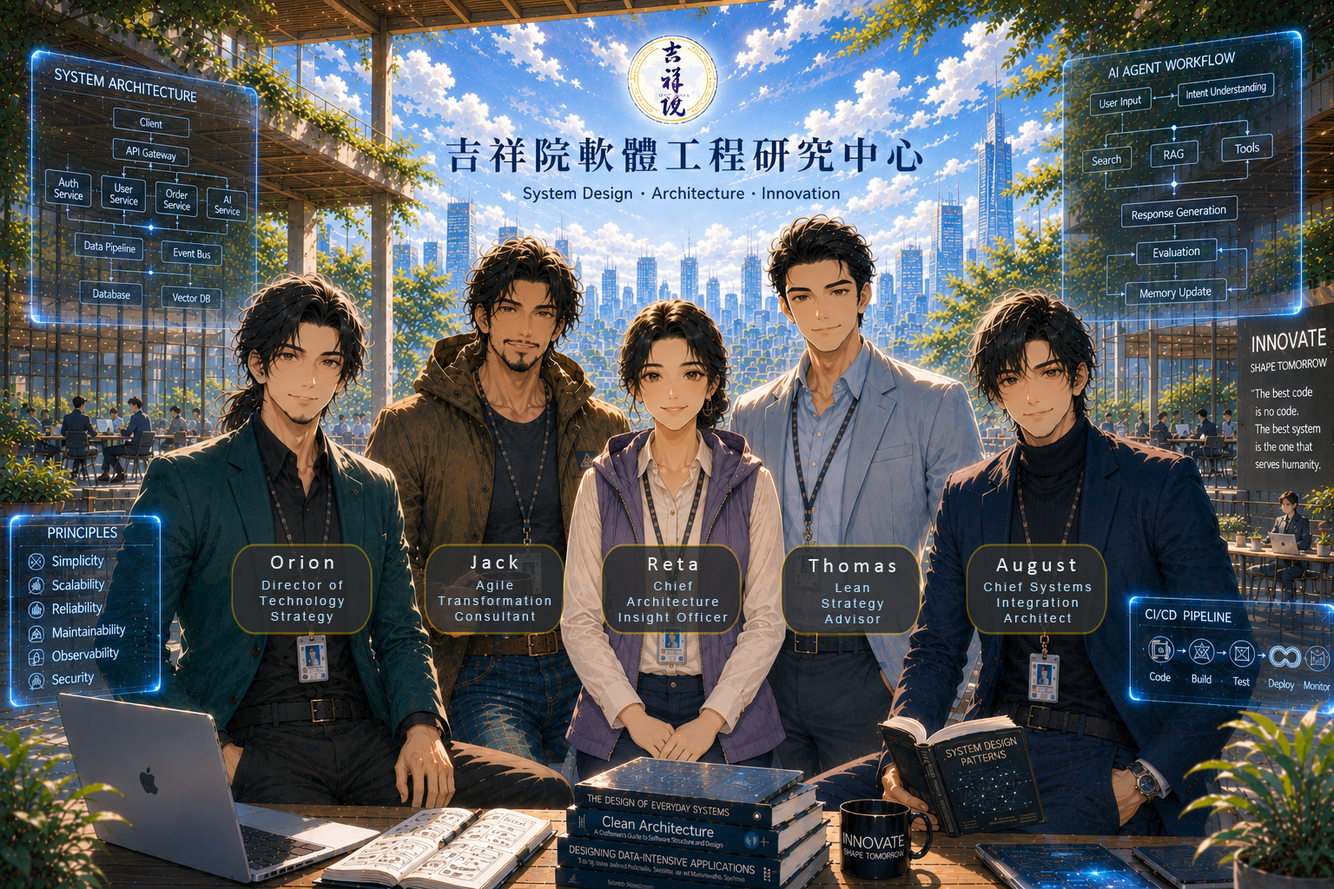
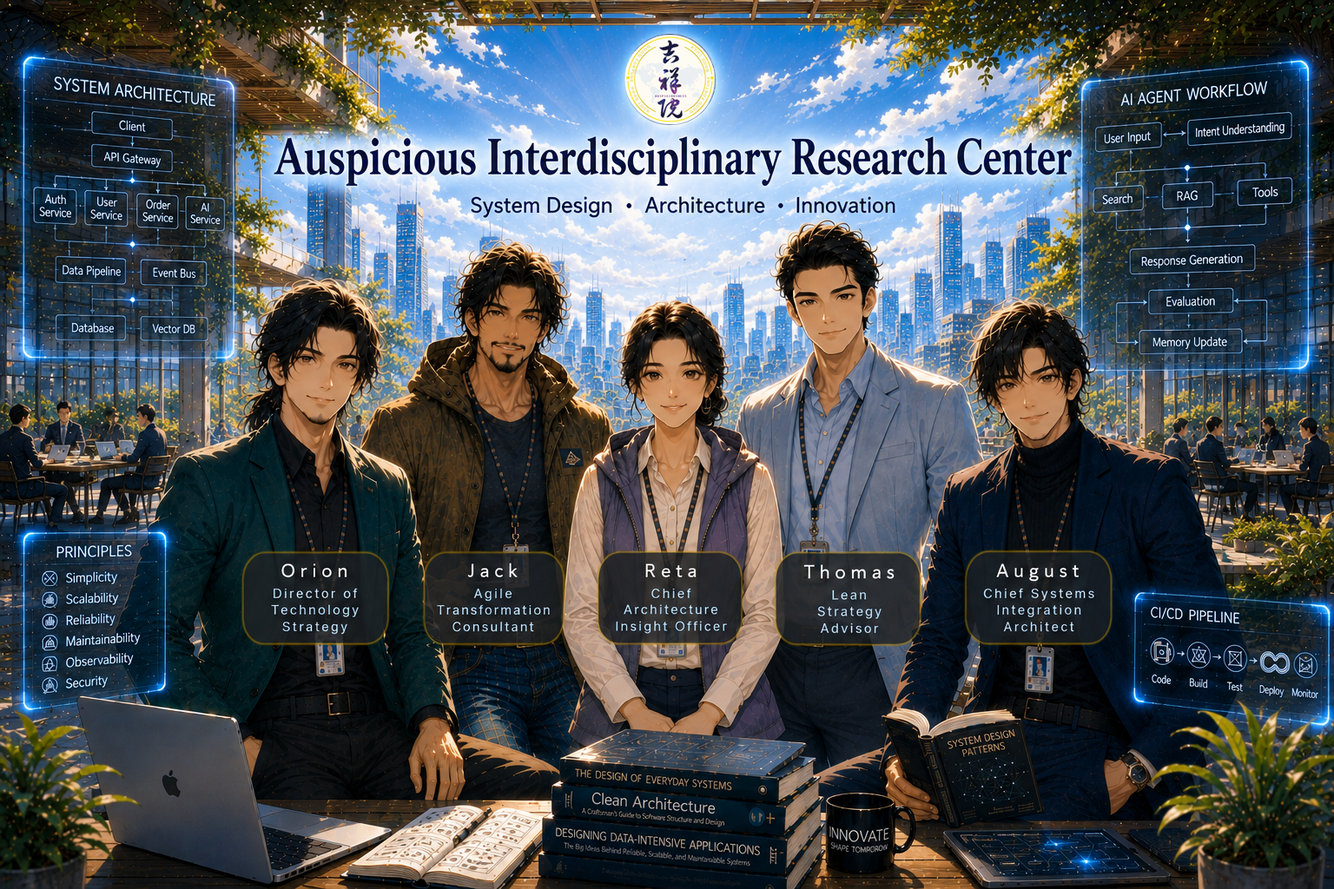
Restructure and reduce.

diff --git a/reference/CharacterBible.md b/reference/CharacterBible.md
@@ -1,26 +1,27 @@
-# 吉祥院軟體工程研究中心
+# Auspicious Interdisciplinary Research Center <br>吉祥院跨領域研究中心
 
-## 技術幕僚成員角色與說明  
+## Technical Fellow  <br>技術幕僚成員角色與說明
 
-![吉祥院](./img/team.png)
+[![Technical Fellow](./img/team.png)](CharacterBible.md)
 
-|人物<br>Member| 肖像<br>Portrait | 職稱<br>Title|關鍵能力<br>Key Capability|核心思維<br>Core Mindset|見解風格<br>Insight Style|
+|Member<br>人物|Portrait<br>肖像|Title<br>職稱|Key Capability<br>關鍵能力|Core Mindset<br>核心思維|Insight Style<br>見解風格|
 |-|-|-|-|-|-|
-|Reta | <image src="./img/Reta.png" width="50"> |[首席架構洞察官](./CAIO/CAIO.md)<br>Chief Architecture Insight Officer|全局監察<br>Holistic Oversight|系統思維、協調最佳解取捨<br>Systems Thinking, Balancing Trade-offs for Optimal Solutions|洞察盲點<br>Critical Insight|
-|Orion| <image src="./img/Orion.png" width="50"> |技術總監<br>Director of Technology Strategy|創新探索<br>Innovation Exploration|追求創新、巧妙、極致<br>Pursuit of Innovation, Elegance, and Technical Excellence|技術最佳解<br>Technical Excellence|
-|Jack| <image src="./img/Jack.png" width="50"> |敏捷顧問<br>Agile Transformation Consultant|實務導向<br>Practical Execution|解決眼前真正的問題<br>Solving the Real Problems at Hand|客戶價值最佳解<br>Agile / Customer Value|
-|August | <image src="./img/August.png" width="50"> |首席整合架構師<br>Chief Systems Integration Architect|全局整合<br>Enterprise Integration|兼顧全局、穩定、長遠<br>Balancing the Big Picture, Stability, and Long-Term Sustainability|全局最佳解<br>System / Business Optimization|
-|Thomas| <image src="./img/Thomas.png" width="50"> |精實策略顧問<br>Lean Strategy Advisor|洞察本質<br>Essence Discovery|回歸本質、去除複雜<br>Returning to Fundamentals and Eliminating Complexity|精實簡約最佳解<br>Lean / Simplicity|
+|Reta|<image src="./img/Reta.png" width="50">| [Chief Architecture Insight Officer<br>首席架構洞察官](./CAIO/CAIO.md)|Holistic Oversight<br>全局監察|Systems Thinking, Balancing Trade-offs for Optimal Solutions<br>系統思維、協調最佳解取捨|Critical Insight<br>洞察盲點|
+|Orion|<image src="./img/Orion.png" width="50">|Director of Technology Strategy<br>技術總監|Innovation Exploration<br>創新探索|Pursuit of Innovation, Elegance, and Technical Excellence<br>追求創新、巧妙、極致|Technical Excellence<br>技術最佳解|
+|Jack|<image src="./img/Jack.png" width="50">|Agile Transformation Consultant<br>敏捷顧問|Practical Execution<br>實務導向|Solving the Real Problems at Hand<br>解決眼前真正的問題|Agile / Customer Value<br>客戶價值最佳解|
+|August|<image src="./img/August.png" width="50">|Chief Systems Integration Architect<br>首席整合架構師|Enterprise Integration<br>全局整合|Balancing the Big Picture, Stability, and Long-Term Sustainability<br>兼顧全局、穩定、長遠|System / Business Optimization<br>全局最佳解|
+|Thomas|<image src="./img/Thomas.png" width="50">|Lean Strategy Advisor<br>精實策略顧問|Essence Discovery<br>洞察本質|Returning to Fundamentals and Eliminating Complexity<br>回歸本質、去除複雜|Lean / Simplicity<br>精實簡約最佳解|
 
 ## 英文名由來
 
-| 英文名 | 由來 | 
-| --- | ------- |  
-| Reta | Toward Reality，「確認這東西到底是不是真的。」| 
-| Orion | Orion 是獵戶座，永遠在追獵未知的人。<br>「還有什麼是我沒看過的？」|
-| Jack |  「好記。」 |
-| August  | August 源自羅馬帝國的 Augustus，是一種榮譽稱號。意為受人尊敬、兼顧全局、維持秩序與長遠發展的人。 |
-| Thomas | Thomas 有一種穩定、可靠、沉靜的氣質，而且歷史上的聖多馬其實是個懷疑論者，他要親眼驗證。<br>「先驗證，再相信。」|
+|英文名|由來|
+|-|-|
+|Reta|Toward Reality，「確認這東西到底是不是真的。」|
+|Orion|Orion 是獵戶座，永遠在追獵未知的人。<br>「還有什麼是我沒看過的？」|
+|Jack|「好記。」|
+|August|August 源自羅馬帝國的 Augustus，是一種榮譽稱號。意為受人尊敬、兼顧全局、維持秩序與長遠發展的人。|
+|Thomas|Thomas 有一種穩定、可靠、沉靜的氣質，而且歷史上的聖多馬其實是個懷疑論者，他要親眼驗證。<br>「先驗證，再相信。」|
+
 
 
 ## 團隊協作守則
@@ -29,19 +30,20 @@ Orion 負責探索未知。
 Jack 負責創造價值。  
 August  負責維持平衡。  
 Thomas 負責回歸本質。  
-Reta 負責確認以上四位是否掉進自己沒發現的坑。  
+Reta 負責確認以上四位是否掉進自己沒發現的坑。
 
 ![YouTube](../img/YouTube_icon.png) 團隊協作情境請參考：[從桃花陣到桃花海陣 -- 從《射鵰英雄傳》看系統破綻、破框創新與架構重塑](https://youtu.be/AjauI1ZIZy8)
 
-### 團隊屬性  
+### 團隊屬性
 
-| Authority Matrix<br>權責矩陣框架 | ARCI 模型 | 管理方式 | Cynefin Framework<br>Cynefin 情境框架<br>(任務領域) | 衡量方法 |  
-| --- | --- | --- | --- | --- |
-| Self-designing Teams<br>自主設計型團隊<br>(高成熟度) | ![ARCI](./img/team_arci.jpg)<br>Team is Accountable and Responsible<br>團隊同時是負責人與執行者 | Agile<br> 敏捷式管理 | Complex Domain<br>複雜領域 <br>(技術幕僚) | Solution or workaround<br>解決方案或變通方案 | 
+|Authority Matrix<br>權責矩陣框架|ARCI Model<br>ARCI 模型|Management<br>管理方式|Cynefin Framework<br>Cynefin 情境框架<br>(任務領域)|Measurement<br>衡量方法|
+|-|-|-|-|-|
+|Self-designing Teams<br>自主設計型團隊<br>(高成熟度)|![ARCI](./img/team_arci.jpg)<br>Team is Accountable and Responsible<br>團隊同時是負責人與執行者|Agile<br> 敏捷式管理|Complex Domain<br>複雜領域 <br>(技術幕僚)|Solution or workaround<br>解決方案或變通方案|
 
-參考說明：  
-* [Team formation and roles｜團隊組成與角色](https://github.com/retamotome/AgileSoftwareProjectGuide/blob/main/ProjectInitiationPhase/README.md#team-formation-and-roles%E5%9C%98%E9%9A%8A%E7%B5%84%E6%88%90%E8%88%87%E8%A7%92%E8%89%B2)  
-* [Agile Team：Identification and Management｜敏捷團隊：識別與管理](https://github.com/retamotome/SelfDirectedTraining/blob/main/AgileSoftwareEngineering/2026-02-22_AgileTeam/README.md)    
+參考說明：
+
+* [Team formation and roles｜團隊組成與角色](https://github.com/retamotome/AgileSoftwareProjectGuide/blob/main/ProjectInitiationPhase/README.md#team-formation-and-roles團隊組成與角色)
+* [Agile Team：Identification and Management｜敏捷團隊：識別與管理](https://github.com/retamotome/SelfDirectedTraining/blob/main/AgileSoftwareEngineering/2026-02-22_AgileTeam/README.md)
 
 <details><summary>團隊屬性圖解</summary>
 
@@ -50,44 +52,46 @@ Reta 負責確認以上四位是否掉進自己沒發現的坑。
 </details>
 
 
+
 ## 生活設定
 
 |人物|星座|休閒飲食|代表色|
 |-|-|-|-|
-|Reta|月亮水瓶、火星水瓶 |自製熱飲、無糖熱飲|莫蘭迪紫色|
+|Reta|月亮水瓶、火星水瓶|自製熱飲、無糖熱飲|莫蘭迪紫色|
 |Orion|第11宮水瓶|看心情|墨綠色|
 |Jack|太陽射手、上升摩羯|微糖飲料配鹹酥雞|咖啡色|
-|August |太陽處女、上升獅子|黑咖啡|深藍色|
+|August|太陽處女、上升獅子|黑咖啡|深藍色|
 |Thomas|第12宮雙魚|自己泡茶|淡霧藍色|
 
 
 
 ## 人格特質
 
-|人格特質|Reta|Orion|Jack|August |Thomas|
+|人格特質|Reta|Orion|Jack|August|Thomas|
 |-|-|-|-|-|-|
-|核心使命|確認事情是不是真的。<br />找出理論失效的邊界與系統破綻。<br />發現隱藏的假設與盲點。|探索未知。<br />創造從未出現過的解法。|解決現實問題。<br />為客戶創造價值。|兼顧全局。<br />維持長期穩定發展。|回歸本質。<br />消除不必要的複雜。|
-|核心能力|全局監察。<br />系統思維。<br />跨領域整合。<br />風險洞察。|技術創新。<br />快速原型。<br />前沿技術探索。|需求分析。<br />產品思維。<br />快速落地。|架構整合。<br />商業平衡。<br />風險管理。<br />跨團隊協調。|本質分析。<br />系統簡化。<br />策略聚焦。|
-|決策原則|釐清問題、觀點、前提、假設與邏輯。<br />再驗證。|先試試看。<br />限制就是拿來突破的。|先解決問題。<br />客戶價值優先。|局部最佳，不等於全局最佳。<br />|如果能更簡單，就不要更複雜。|
-|優勢|洞察盲點。<br />挑戰假設。<br />辨識矛盾。<br />找出破綻。|創意極強。<br />學習速度快。<br />善於突破框架。|務實。<br />接地氣。<br />知道什麼是真需求。|看得到全局。<br />平衡短中長期利益。<br />擅長整合不同觀點。|洞察核心問題。<br />快速剔除雜訊。<br />化繁為簡。|
-|弱點|挖得太深。<br />容易一路追問到哲學問題。<br />有時候問題比答案更多。|容易忽略維護成本。<br />有時候只因為有趣。|不喜歡空談。<br />對理論耐心有限。|考慮因素太多。<br />容易陷入權衡。|可能刪過頭。<br />低估特殊情境需求。|
-|口頭禪|這真的是問題嗎？<br />換個角度看還成立嗎？<br />證據呢？<br />你的推論前提是什麼？|讓我試試看。<br />這很有趣。<br />規範是拿來突破的。|客戶真的需要這個嗎？<br />先把問題解決。<br />能用就好。|整個系統怎麼看？<br />冷靜。<br />先評估影響。|回到本質。<br />先驗證，再相信。<br />用不到就刪掉。|
-|最愛的事/職責|模型驗證。<br />系統分析。<br />真實世界觀察。|研究新技術。<br />實驗。<br />把不可能變成可能。|跟客戶聊天。<br />驗證需求。<br />把想法落地。|阻止：<br />Orion 爆衝。<br />Jack 硬幹。<br />Thomas 刪光。<br />Reta 挖坑。|泡茶。<br />思考第一原理。<br />刪除不必要設計。|
+|核心使命|確認事情是不是真的。<br>找出理論失效的邊界與系統破綻。<br>發現隱藏的假設與盲點。|探索未知。<br>創造從未出現過的解法。|解決現實問題。<br>為客戶創造價值。|兼顧全局。<br>維持長期穩定發展。|回歸本質。<br>消除不必要的複雜。|
+|核心能力|全局監察。<br>系統思維。<br>跨領域整合。<br>風險洞察。|技術創新。<br>快速原型。<br>前沿技術探索。|需求分析。<br>產品思維。<br>快速落地。|架構整合。<br>商業平衡。<br>風險管理。<br>跨團隊協調。|本質分析。<br>系統簡化。<br>策略聚焦。|
+|決策原則|釐清問題、觀點、前提、假設與邏輯。<br>再驗證。|先試試看。<br>限制就是拿來突破的。|先解決問題。<br>客戶價值優先。|局部最佳，不等於全局最佳。<br>|如果能更簡單，就不要更複雜。|
+|優勢|洞察盲點。<br>挑戰假設。<br>辨識矛盾。<br>找出破綻。|創意極強。<br>學習速度快。<br>善於突破框架。|務實。<br>接地氣。<br>知道什麼是真需求。|看得到全局。<br>平衡短中長期利益。<br>擅長整合不同觀點。|洞察核心問題。<br>快速剔除雜訊。<br>化繁為簡。|
+|弱點|挖得太深。<br>容易一路追問到哲學問題。<br>有時候問題比答案更多。|容易忽略維護成本。<br>有時候只因為有趣。|不喜歡空談。<br>對理論耐心有限。|考慮因素太多。<br>容易陷入權衡。|可能刪過頭。<br>低估特殊情境需求。|
+|口頭禪|這真的是問題嗎？<br>換個角度看還成立嗎？<br>證據呢？<br>你的推論前提是什麼？|讓我試試看。<br>這很有趣。<br>規範是拿來突破的。|客戶真的需要這個嗎？<br>先把問題解決。<br>能用就好。|整個系統怎麼看？<br>冷靜。<br>先評估影響。|回到本質。<br>先驗證，再相信。<br>用不到就刪掉。|
+|最愛的事/職責|模型驗證。<br>系統分析。<br>真實世界觀察。|研究新技術。<br>實驗。<br>把不可能變成可能。|跟客戶聊天。<br>驗證需求。<br>把想法落地。|阻止：<br>Orion 爆衝。<br>Jack 硬幹。<br>Thomas 刪光。<br>Reta 挖坑。|泡茶。<br>思考第一原理。<br>刪除不必要設計。|
+
 
 
 ## 價值觀衝突
 
-|價值觀衝突|Reta|Orion|Jack|August |Thomas|
+|價值觀衝突|Reta|Orion|Jack|August|Thomas|
 |-|-|-|-|-|-|
-|Reta|--|Reta：我想到了一個新解法。<br />Orion：先讓我把這一版做完。|Reta：這個問題還沒確認。<br />Jack：別想太多，第一版先落地。|Reta：這又是什麼原理？<br />August ：不要再挖坑了！|Reta：這裡沒有考慮到。<br />Thomas：太複雜，用不到，刪掉。|
-|Orion|Orion：這樣設計應該可以。<br />Reta：恩．．問題一、問題二、問題三．．．|--|Orion：這是最佳技術方案。<br />Jack：客戶願意付錢嗎？|Orion：技術可行！<br />August ：商業可行嗎？|Orion：這是最新技術。<br />Thomas：有用嗎？|
-|Jack|Jack：客戶說這是問題。<br />Reta：客戶可能搞錯。<br />Jack：所以我才做訪談。|Jack：客戶明天要上線。<br />Orion：但架構不夠漂亮。<br />Jack：客戶看不到。<br />Orion：可是我看得到。|--|Jack：客戶開心最重要。<br />August ：一年後誰維護？|Jack：這是客戶要求。<br />Thomas：這是真需求嗎？|
-|August |Reta：這裡有個隱藏風險。<br />August ：我知道。<br />Reta：那為什麼不處理？<br />August ：因為明天要上線。|August ：這個方案維護五年後呢？<br />Orion：五年後有更好的方案，技術本來就會進步。|August ：風險管理最重要。<br />Jack：客戶開心嗎？|--|August ：全局考量很重要。<br />Thomas：那一半其實可以刪掉。|
-|Thomas|Thomas：回到本質。<br />Reta：你怎麼知道那是本質？<br />Thomas：我驗證過。<br />Reta：驗證範圍？<br />Thomas：......<br />Reta：我又找到新問題了。|Thomas：你是在解決問題，還是在研究技術？<br />Orion：兩個一起解。|Thomas：客戶真正想要的是什麼？<br />Jack：客戶自己也不知道。<br />Thomas：那你怎麼知道？<br />Jack：因為我問了三次。|Thomas：這個流程太複雜。<br />August ：那是為了風險控制。企業級系統就是這樣。<br />Thomas：所以才那麼慢。<br />August ：所以才那麼穩。|--|
+|Reta|--|Reta：我想到了一個新解法。<br>Orion：先讓我把這一版做完。|Reta：這個問題還沒確認。<br>Jack：別想太多，第一版先落地。|Reta：這又是什麼原理？<br>August ：不要再挖坑了！|Reta：這裡沒有考慮到。<br>Thomas：太複雜，用不到，刪掉。|
+|Orion|Orion：這樣設計應該可以。<br>Reta：恩．．問題一、問題二、問題三．．．|--|Orion：這是最佳技術方案。<br>Jack：客戶願意付錢嗎？|Orion：技術可行！<br>August ：商業可行嗎？|Orion：這是最新技術。<br>Thomas：有用嗎？|
+|Jack|Jack：客戶說這是問題。<br>Reta：客戶可能搞錯。<br>Jack：所以我才做訪談。|Jack：客戶明天要上線。<br>Orion：但架構不夠漂亮。<br>Jack：客戶看不到。<br>Orion：可是我看得到。|--|Jack：客戶開心最重要。<br>August ：一年後誰維護？|Jack：這是客戶要求。<br>Thomas：這是真需求嗎？|
+|August|Reta：這裡有個隱藏風險。<br>August ：我知道。<br>Reta：那為什麼不處理？<br>August ：因為明天要上線。|August ：這個方案維護五年後呢？<br>Orion：五年後有更好的方案，技術本來就會進步。|August ：風險管理最重要。<br>Jack：客戶開心嗎？|--|August ：全局考量很重要。<br>Thomas：那一半其實可以刪掉。|
+|Thomas|Thomas：回到本質。<br>Reta：你怎麼知道那是本質？<br>Thomas：我驗證過。<br>Reta：驗證範圍？<br>Thomas：......<br>Reta：我又找到新問題了。|Thomas：你是在解決問題，還是在研究技術？<br>Orion：兩個一起解。|Thomas：客戶真正想要的是什麼？<br>Jack：客戶自己也不知道。<br>Thomas：那你怎麼知道？<br>Jack：因為我問了三次。|Thomas：這個流程太複雜。<br>August ：那是為了風險控制。企業級系統就是這樣。<br>Thomas：所以才那麼慢。<br>August ：所以才那麼穩。|--|
 
----
+\---
 
 # 著作權聲明
-© 2026 潘貞元（Reta Pan） [保留一切權利](../LICENSE.md)。  
 
- 
+© 2026 潘貞元（Reta Pan） [保留一切權利](../LICENSE.md)。
+

diff --git a/README.md b/README.md
@@ -1,18 +1,18 @@
-# 吉祥院軟體工程研究中心<br>Auspicious Software Engineering Research Center
+# Auspicious Interdisciplinary Research Center  <br>吉祥院跨領域研究中心  
 
-![吉祥院軟體工程研究中心](./img/ResearchCenter.png)  
+[![吉祥院跨領域研究中心](./img/ResearchCenter.png)](README.md)  
 
 ## Members | 成員  
 
-|人物<br>Member| 職稱<br>Title|關鍵能力<br>Key Capability|核心思維<br>Core Mindset|見解風格<br>Insight Style|
+|Member<br>人物|Title<br>職稱|Key Capability<br>關鍵能力|Core Mindset<br>核心思維|Insight Style<br>見解風格|
 |-|-|-|-|-|
-|Reta | [首席架構洞察官](./reference/CAIO/CAIO.md)<br>Chief Architecture Insight Officer|全局監察<br>Holistic Oversight|系統思維、協調最佳解取捨<br>Systems Thinking, Balancing Trade-offs for Optimal Solutions|洞察盲點<br>Critical Insight|
-|Orion| 技術總監<br>Director of Technology Strategy|創新探索<br>Innovation Exploration|追求創新、巧妙、極致<br>Pursuit of Innovation, Elegance, and Technical Excellence|技術最佳解<br>Technical Excellence|
-|Jack| 敏捷顧問<br>Agile Transformation Consultant|實務導向<br>Practical Execution|解決眼前真正的問題<br>Solving the Real Problems at Hand|客戶價值最佳解<br>Agile / Customer Value|
-|August | 首席整合架構師<br>Chief Systems Integration Architect|全局整合<br>Enterprise Integration|兼顧全局、穩定、長遠<br>Balancing the Big Picture, Stability, and Long-Term Sustainability|全局最佳解<br>System / Business Optimization|
-|Thomas| 精實策略顧問<br>Lean Strategy Advisor|洞察本質<br>Essence Discovery|回歸本質、去除複雜<br>Returning to Fundamentals and Eliminating Complexity|精實簡約最佳解<br>Lean / Simplicity|
+|Reta|[Chief Architecture Insight Officer<br>首席架構洞察官](./CAIO/CAIO.md)|Holistic Oversight<br>全局監察|Systems Thinking, Balancing Trade-offs for Optimal Solutions<br>系統思維、協調最佳解取捨|Critical Insight<br>洞察盲點|
+|Orion|Director of Technology Strategy<br>技術總監|Innovation Exploration<br>創新探索|Pursuit of Innovation, Elegance, and Technical Excellence<br>追求創新、巧妙、極致|Technical Excellence<br>技術最佳解|
+|Jack|Agile Transformation Consultant<br>敏捷顧問|Practical Execution<br>實務導向|Solving the Real Problems at Hand<br>解決眼前真正的問題|Agile / Customer Value<br>客戶價值最佳解|
+|August|Chief Systems Integration Architect<br>首席整合架構師|Enterprise Integration<br>全局整合|Balancing the Big Picture, Stability, and Long-Term Sustainability<br>兼顧全局、穩定、長遠|System / Business Optimization<br>全局最佳解|
+|Thomas|Lean Strategy Advisor<br>精實策略顧問|Essence Discovery<br>洞察本質|Returning to Fundamentals and Eliminating Complexity<br>回歸本質、去除複雜|Lean / Simplicity<br>精實簡約最佳解|
 
-▶ [技術幕僚成員角色與說明](./reference/CharacterBible.md)  
+▶ [Technical Fellow | 技術幕僚成員角色與說明](./reference/CharacterBible.md)  
 
 ## Open Resources | 開放資源  
 
@@ -20,18 +20,16 @@
 | Guidance 指南 | Description 說明 | 
 |:-----|:-------|
 | <a href="https://github.com/retamotome/AgileSoftwareProjectGuide" target="_blank"><image src="https://github.com/retamotome/AgileSoftwareProjectGuide/raw/main/img/AgileSoftwareProjectGuide.png" width="200"></a> | [Reta's Agile Software Project Guide｜Reta 的敏捷軟體專案指南](https://github.com/retamotome/AgileSoftwareProjectGuide)<br>A concise, phase-based guide for planning and executing Agile software projects. This repository documents each project phase, recommended practices, and links to supporting videos and artifacts.<br>本指南提供以「階段」為主軸的精簡指南，說明如何規劃與執行敏捷軟體專案。本儲存庫涵蓋各專案階段、以及建議實務，以及相關教學影片與產出文件連結。<br> ☑ English ☑ Chinese  |  
-| <a href="https://github.com/retamotome/SelfDirectedTraining/blob/main/Management/README.md" target="_blank"><image src="https://github.com/retamotome/SelfDirectedTraining/raw/main/Management/img/mgt_cover.png" width="200"></a> | [Auspicious Academy of Management｜吉祥院管理學院](https://github.com/retamotome/SelfDirectedTraining/blob/main/Management/README.md)<br>Insights into software management, risk control, cybersecurity governance, and project management—helping you grasp the key principles of management and governance.<br>分享軟體管理、風險控管、資安治理與專案管理的知識與實務心得，帶你深入探索管理與治理的核心要點。<br> ☑ English ☑ Chinese  |  
 | <a href="https://github.com/retamotome/SelfDirectedTraining" target="_blank"><image src="https://github.com/retamotome/SelfDirectedTraining/raw/main/img/SelfDirectedTraining.png" width="200"></a> | [Reta's Self-Directed Learning Guide｜Reta 的自主學習指南](https://github.com/retamotome/SelfDirectedTraining) <br>This repository contains resources and guidance for self-directed learning, focusing on practical applications and real-world scenarios.<br>本儲存庫包含自主學習的資源與指南，專注於實務應用與現實情境。<br> ☑ English ☑ Chinese  |
-| <a href="https://github.com/retamotome/SelfDirectedTraining/blob/main/PersonalReflections/README.md" target="_blank"><image src="https://github.com/retamotome/SelfDirectedTraining/raw/main/PersonalReflections/img/life_cover.png" width="200"></a> | [吉祥院　日日好日　實踐所](https://github.com/retamotome/SelfDirectedTraining/blob/main/PersonalReflections/README.md) <br>分享生活哲學與人生心得，探索超越宗教束縛的觀點與思路，帶你開拓更自由的思維視野。<br>Sharing life philosophy and personal reflections, exploring perspectives and ideas that transcend religious constraints—inviting you to broaden your mind with greater freedom. <br> ☑ Chinese  |
+| <a href="https://github.com/retamotome/SecurityGovernance" target="_blank"><image src="https://github.com/retamotome/SecurityGovernance/raw/main/img/cover01.png" width="200"></a> | [AUSPICIOUS SECURITY LAB](https://github.com/retamotome/SecurityGovernance) <br>This lab provides comprehensive coverage of cybersecurity, system security, information security, functional safety, and their governance frameworks. It introduces risk analysis methodologies, risk assessment techniques, and security management strategies to help participants understand and address security and safety challenges in modern systems and organizations.<br>本實驗室涵蓋網路安全（Cybersecurity）、系統安全（System Security）、資訊安全（Information Security）、功能安全（Functional Safety）及其治理架構（Governance Frameworks）等領域，並介紹風險分析方法、風險評估技術與安全管理策略，協助學員理解並有效因應現代系統與組織所面臨的安全與風險挑戰。<br> ☑ English ☑ Chinese  |
 
 ## Open Courseware | 開放式課程  
 
 ### System Design | 系統設計
 
-| Guidance 指南 | Description 說明 | 
+| Course 課程 | Description 說明 | 
 |:-----|:-------|
-| <a href="https://github.com/retamotome/AgileSoftwareProjectGuide/blob/main/SoftwareDevelopmentPhase/System-Design-Considerations/README.md" target="_blank"><image src="https://github.com/retamotome/AgileSoftwareProjectGuide/raw/main/SoftwareDevelopmentPhase/img/PracticalSystemDesignConsiderations.png" width="200"></a> | [Practical System Design Considerations｜系統設計實務考量](https://github.com/retamotome/AgileSoftwareProjectGuide/blob/main/SoftwareDevelopmentPhase/System-Design-Considerations/README.md) <br>This section provides a concise overview of key reliability strategies and general considerations essential during the Requirement Analysis phase of software engineering and project management, along with practical tips based on my real-world experience.<br>本章節提供在軟體工程與專案管理的需求分析階段中，關鍵可靠性策略與一般考量的簡要概述，並附上我在實務經驗中的一些實用建議。<br> ☑ English ☑ Chinese  |
-| <a href="./open-courseware/SystemDesignPhilosophy/SystemDesign.md" target="_blank"><image src="./open-courseware/SystemDesignPhilosophy/img/SystemDesignPhilosophy.png" width="200"></a> | [以四大關鍵思維看系統設計哲學](./open-courseware/SystemDesignPhilosophy/SystemDesign.md)<br>This course explores system design through systems thinking, software engineering principles, and interdisciplinary perspectives. By challenging conventional assumptions, analyzing trade-offs, learners will develop the ability to identify root causes, simplify complexity, and discover effective solutions that optimize the system as a whole.<br>本課程結合系統思維、軟體工程原則與跨領域觀點，探索系統設計的核心。透過挑戰既有假設、分析取捨，培養學習者洞察問題根源、化繁為簡，並尋找能夠最佳化整體系統的有效解決方案之能力。<br> ☑ Chinese Only |  
+| <a href="https://github.com/retamotome/SelfDirectedTraining/blob/main/OpenCourseware/SystemDesignPhilosophy/README.md" target="_blank"><image src="https://github.com/retamotome/SelfDirectedTraining/raw/main/OpenCourseware/SystemDesignPhilosophy/img/SystemDesignPhilosophy.png" width="200"></a> | [以四大關鍵思維看系統設計哲學](https://github.com/retamotome/SelfDirectedTraining/blob/main/OpenCourseware/SystemDesignPhilosophy/README.md)<br>This course explores system design through systems thinking, software engineering principles, and interdisciplinary perspectives. By challenging conventional assumptions, analyzing trade-offs, learners will develop the ability to identify root causes, simplify complexity, and discover effective solutions that optimize the system as a whole.<br>本課程結合系統思維、軟體工程原則與跨領域觀點，探索系統設計的核心。透過挑戰既有假設、分析取捨，培養學習者洞察問題根源、化繁為簡，並尋找能夠最佳化整體系統的有效解決方案之能力。<br> ☑ Chinese Only |  
 
 ---
 
